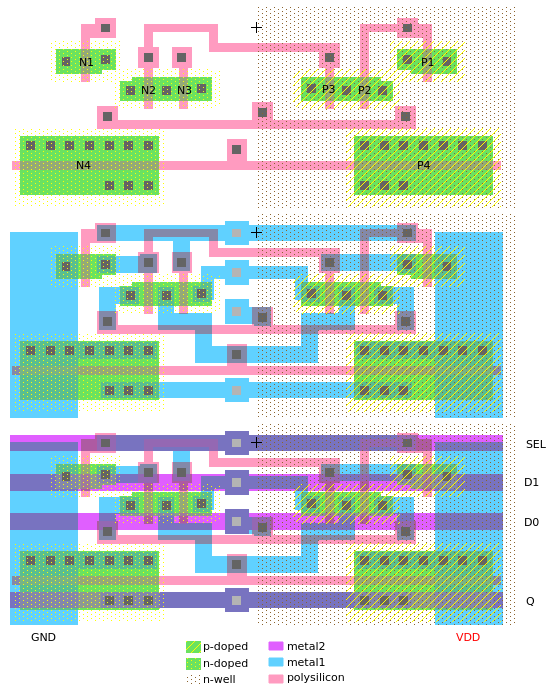
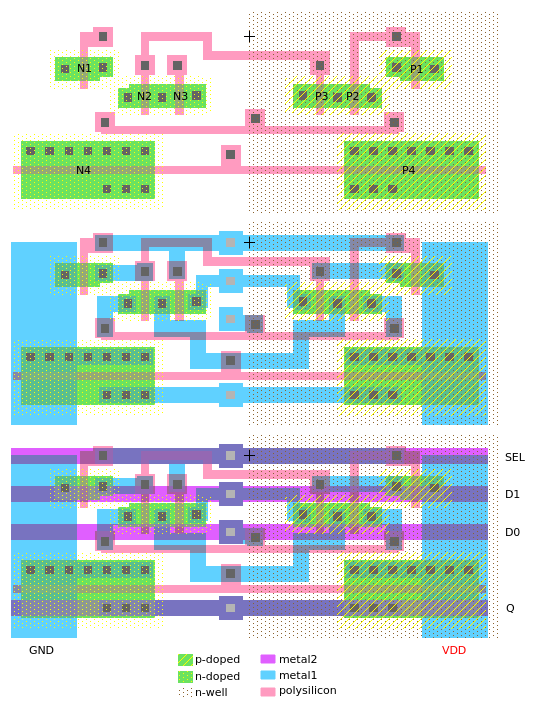
Minor fix to MUXI layout

diff --git a/doc/dmg_cells.html b/doc/dmg_cells.html
@@ -2883,7 +2883,7 @@ by just making some changes on metal 1 layer during a post synthesis metal fix.<
 inverted <i>D0</i> if <i>SEL</i> is low.</td></tr>
 </table></td></tr>
 </table>
-<p><img src="img/cells/muxi_layout.png?v=1" alt=""></p>
+<p><img src="img/cells/muxi_layout.png?v=2" alt=""></p>
 <p><img src="img/cells/muxi_sch.png?v=0" alt=""></p>
 <p>Instances:
 <a href="/dmg_cpu_b_map/?view=c:cave">CAVE</a>
